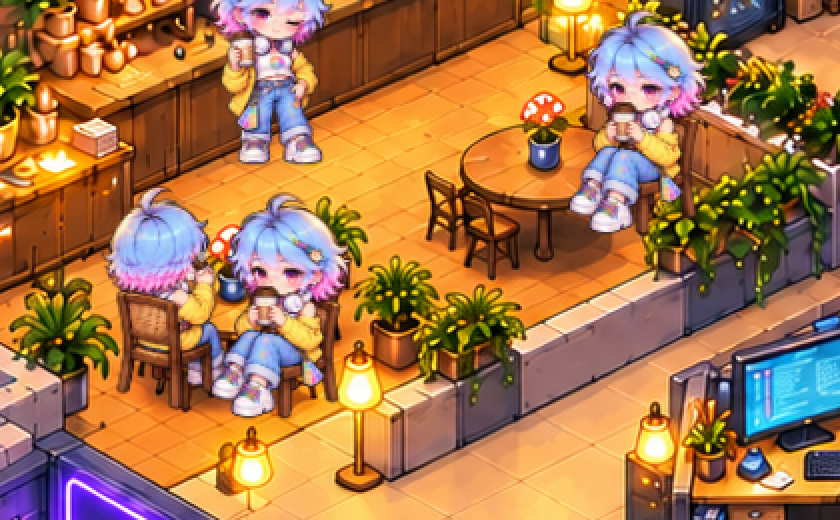
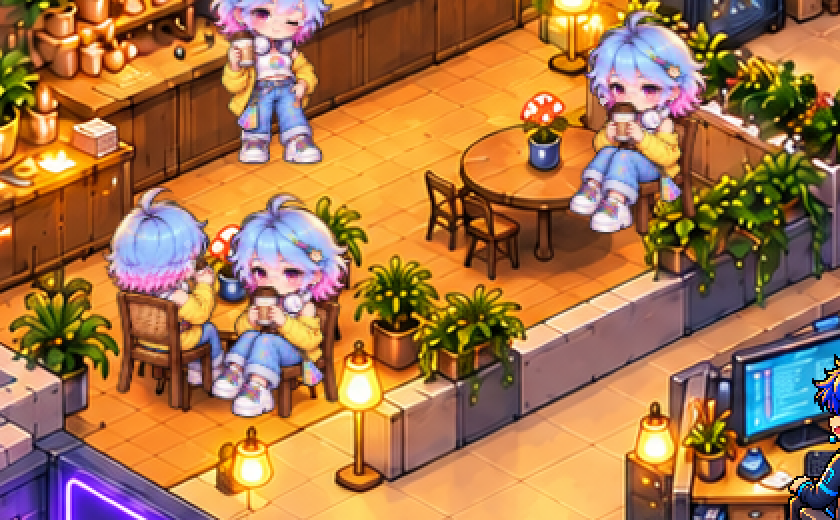
Idle: fixed per-slot poses, scripted break routine, re-seated lounge slots
- each slot owns the poses that fit its chair/sofa; chat poses only with a
  friend at the same table/sofa
- routine counter -> cafe table -> lounge -> refill, first free slot in a
  fixed order (no random jumps)
- lounge slots moved into the cushions (poses are drawn knees-up)

diff --git a/src/idle.ts b/src/idle.ts
@@ -1,46 +1,45 @@
-// Idle agents: when an agent has no work it sits on a background chair/sofa in the Cafe or the Lounge.
-// No walking: an agent fades out and fades in at another free slot. Each slot holds one agent, and a slot
-// is also blocked while any occupied slot (idle or a work seat) is within BLOCK_RADIUS or listed in
-// `conflicts` — so sprites never sit on top of each other.
+// Idle agents: an agent with no work takes a break in the Cafe and the Lounge on a fixed routine
+// (coffee counter → cafe table → lounge → back for a refill), never a random jump. Each slot has its own
+// fixed poses that fit that exact chair/sofa. No walking: the agent fades out and in at the next slot.
+// Each slot holds one agent; slots closer than BLOCK_RADIUS or listed in `conflicts` (including work seats
+// registered as blockers, e.g. 'P' = Pixel's sofa desk) block each other, so sprites never overlap.
 import {Container,Graphics,Sprite,Text,type Texture} from 'pixi.js';
 import {iconSprite,setIcon} from './pixel-icons';
 
 export type IdleManifest={scale:number;poses:Record<string,{file:string;width:number;height:number;anchorX:number;anchorY:number}>};
 export type IdleCast={name:string;manifest:IdleManifest;textures:Record<string,Texture>};
 
-type SlotKind='sofa'|'loveseat'|'chair_front'|'chair_back'|'counter'|'cooler';
-export type IdleSlot={id:string;x:number;y:number;kind:SlotKind;flip:boolean;conflicts?:string[]};
-
-// Floor contact of each slot on office_original.png (1496x1051). chair_* sprites include the cafe chair and
-// are placed so it covers the chair painted in the background (tuned 22/10, see idle-slots-*.png).
-export const IDLE_SLOTS:IdleSlot[]=[
-  {id:'C1',x:188,y:425,kind:'chair_back',flip:false},
-  {id:'C2',x:231,y:430,kind:'chair_front',flip:true},
-  {id:'C3',x:348,y:352,kind:'chair_back',flip:false,conflicts:['C4']},
-  {id:'C4',x:410,y:338,kind:'chair_front',flip:true,conflicts:['C3']},
-  {id:'C5',x:240,y:302,kind:'counter',flip:false},
-  {id:'R1',x:1150,y:815,kind:'sofa',flip:false,conflicts:['P']},
-  {id:'R2',x:1265,y:800,kind:'sofa',flip:false},
-  {id:'R3',x:1345,y:825,kind:'sofa',flip:true},
-  {id:'R5',x:1078,y:875,kind:'sofa',flip:false},
-  {id:'R6',x:1150,y:905,kind:'sofa',flip:false},
-  {id:'R7',x:1330,y:940,kind:'loveseat',flip:false},
-  {id:'R8',x:1432,y:908,kind:'cooler',flip:true},
-];
-// Slots closer than this always block each other; pairs that only overlap at certain angles are listed
-// explicitly in `conflicts` (a work seat counts by its blocker id, e.g. 'P' = Pixel's sofa desk).
-const BLOCK_RADIUS=40;
-
-// Activities per slot kind: [pose, weight, min s, max s]. Talk poses are also picked to chat with a neighbour.
+type Zone='counter'|'cafe'|'lounge';
+// [pose, weight, min s, max s]
 type Act=[string,number,number,number];
-const ACTS:Record<SlotKind,Act[]>={
-  sofa:[['sit_relax',30,5,10],['sit_drink',22,4,8],['sit_phone',22,5,10],['sit_laugh',10,2,4],['sit_doze',16,8,14]],
-  loveseat:[['sit_back',1,6,12]],
-  chair_front:[['chair_front_drink',60,5,10],['chair_front_talk',40,3,6]],
-  chair_back:[['chair_back_drink',60,5,10],['chair_back_talk',40,3,6]],
-  counter:[['stand_brew',55,4,7],['stand_drink',45,4,8]],
-  cooler:[['stand_drink',1,5,9]],
-};
+export type IdleSlot={id:string;x:number;y:number;zone:Zone;flip:boolean;acts:Act[];
+  // pose used to chat when a friend sits in the same `group`
+  talk?:string;group?:string;conflicts?:string[]};
+
+// Floor contact of each slot on office_original.png (1496x1051), tuned one by one on zoomed renders (22/10):
+// cafe chair sprites cover the painted chairs; lounge sprites sit inside the cushions, not on the front edge.
+export const IDLE_SLOTS:IdleSlot[]=[
+  // coffee counter: brew, then drink, always in this order
+  {id:'C5',x:240,y:302,zone:'counter',flip:false,acts:[['stand_brew',1,4,6],['stand_drink',1,3,5]]},
+  // cafe table A (C1 back to the viewer, C2 facing out) and table B (C3/C4 overlap: one at a time)
+  {id:'C2',x:231,y:430,zone:'cafe',flip:true,group:'tableA',talk:'chair_front_talk',acts:[['chair_front_drink',1,6,12]]},
+  {id:'C1',x:188,y:425,zone:'cafe',flip:false,group:'tableA',talk:'chair_back_talk',acts:[['chair_back_drink',1,6,12]]},
+  {id:'C4',x:410,y:338,zone:'cafe',flip:true,group:'tableB',talk:'chair_front_talk',acts:[['chair_front_drink',1,6,12]],conflicts:['C3']},
+  {id:'C3',x:348,y:352,zone:'cafe',flip:false,group:'tableB',talk:'chair_back_talk',acts:[['chair_back_drink',1,6,12]],conflicts:['C4']},
+  // lounge: L-sofa, two poufs, loveseat, water cooler
+  {id:'R2',x:1268,y:782,zone:'lounge',flip:false,group:'sofa',talk:'sit_laugh',acts:[['sit_drink',40,5,9],['sit_relax',35,6,10],['sit_phone',25,6,10]]},
+  {id:'R1',x:1162,y:795,zone:'lounge',flip:false,group:'sofa',talk:'sit_laugh',acts:[['sit_relax',40,6,10],['sit_phone',35,6,10],['sit_drink',25,5,9]],conflicts:['P']},
+  {id:'R3',x:1335,y:803,zone:'lounge',flip:true,group:'sofa',talk:'sit_laugh',acts:[['sit_phone',50,6,10],['sit_relax',50,6,10]]},
+  {id:'R6',x:1152,y:888,zone:'lounge',flip:false,group:'poufs',talk:'sit_laugh',acts:[['sit_doze',60,10,16],['sit_relax',40,6,10]]},
+  {id:'R5',x:1080,y:858,zone:'lounge',flip:false,group:'poufs',talk:'sit_laugh',acts:[['sit_relax',50,6,10],['sit_phone',50,6,10]]},
+  {id:'R7',x:1336,y:928,zone:'lounge',flip:false,acts:[['sit_back',1,8,14]]},
+  {id:'R8',x:1420,y:918,zone:'lounge',flip:true,acts:[['stand_drink',1,5,9]]},
+];
+const BLOCK_RADIUS=40;
+// The break routine: [zone, seconds spent there]. A full zone is skipped.
+const ROUTINE:[Zone,number,number][]=[['counter',7,11],['cafe',25,40],['lounge',40,70]];
+const CHAT_CHANCE=0.35;
+
 const TALK_POSES=new Set(['chair_front_talk','chair_back_talk','sit_laugh']);
 const DRINK_POSES=new Set(['sit_drink','chair_front_drink','chair_back_drink','stand_drink']);
 const CHAT_ICONS=['chat','laugh','heart','coffee','star','sparkle','note'];
@@ -54,30 +53,29 @@ export class IdleWorld{
   blockers:{id:string;x:number;y:number;active:()=>boolean}[]=[];
   agents:IdleAgent[]=[];
   constructor(public layer:Container){}
-  occupiedPoints(except?:IdleAgent){
-    const pts:{x:number;y:number;id?:string}[]=[];
-    for(const [id,a] of this.owner)if(a!==except){const s=IDLE_SLOTS.find(s=>s.id===id)!;pts.push({x:s.x,y:s.y,id})}
-    for(const b of this.blockers)if(b.active())pts.push(b);
-    return pts;
-  }
   free(slot:IdleSlot,except?:IdleAgent){
-    if(this.owner.has(slot.id)&&this.owner.get(slot.id)!==except)return false;
-    return this.occupiedPoints(except).every(p=>p.id!==slot.id&&!slot.conflicts?.includes(p.id??'')&&Math.hypot(p.x-slot.x,p.y-slot.y)>BLOCK_RADIUS);
+    const holder=this.owner.get(slot.id);
+    if(holder&&holder!==except)return false;
+    for(const [id,a] of this.owner){
+      if(a===except||id===slot.id)continue;
+      const s=IDLE_SLOTS.find(s=>s.id===id)!;
+      if(slot.conflicts?.includes(id)||Math.hypot(s.x-slot.x,s.y-slot.y)<BLOCK_RADIUS)return false;
+    }
+    return this.blockers.every(b=>!b.active()||(!slot.conflicts?.includes(b.id)&&Math.hypot(b.x-slot.x,b.y-slot.y)>=BLOCK_RADIUS));
   }
-  claim(agent:IdleAgent,prefer?:string){
-    const options=IDLE_SLOTS.filter(s=>s.id!==agent.slot?.id&&this.free(s,agent));
-    if(!options.length)return null;
-    const slot=options.find(s=>s.id===prefer)??options[Math.floor(Math.random()*options.length)];
-    if(agent.slot)this.owner.delete(agent.slot.id);
+  // First free slot of a zone, in the fixed order of IDLE_SLOTS.
+  claim(agent:IdleAgent,zone:Zone){
+    const slot=IDLE_SLOTS.find(s=>s.zone===zone&&s.id!==agent.slot?.id&&this.free(s,agent));
+    if(!slot)return null;
+    this.release(agent);
     this.owner.set(slot.id,agent);
     return slot;
   }
   release(agent:IdleAgent){if(agent.slot&&this.owner.get(agent.slot.id)===agent)this.owner.delete(agent.slot.id)}
-  neighbour(agent:IdleAgent){
-    if(!agent.slot)return null;
-    let best:IdleAgent|null=null,dist=130;
-    for(const a of this.agents)if(a!==agent&&a.active&&a.slot){const d=Math.hypot(a.slot.x-agent.slot.x,a.slot.y-agent.slot.y);if(d<dist){dist=d;best=a}}
-    return best;
+  // A friend in the same table/sofa group.
+  mate(agent:IdleAgent){
+    const g=agent.slot?.group;if(!g)return null;
+    return this.agents.find(a=>a!==agent&&a.active&&!a.fadingOut&&a.slot?.group===g)??null;
   }
   update(now:number,dt:number){for(const a of this.agents)a.update(now,dt)}
 }
@@ -91,11 +89,12 @@ export class IdleAgent{
   slot:IdleSlot|null=null;
   active=false;
   pose='';
+  step=0;
+  actIndex=0;
   until=0;
-  moveAt=0;
+  leaveAt=0;
   fade=1;
   fadingOut=false;
-  nextSlot:string|undefined;
   particleClock=0;
   constructor(public world:IdleWorld,public cast:IdleCast){
     this.bubble.addChild(new Graphics().roundRect(-13,-12,26,22,7).fill('#ffffff').stroke({color:'#16223a',width:2}).poly([-4,10,4,10,-2,16]).fill('#ffffff'),this.icon);
@@ -105,18 +104,21 @@ export class IdleAgent{
     world.layer.addChild(this.root);world.agents.push(this);
   }
   get head(){return this.sprite.height}
-  start(now:number,prefer?:string){
-    const slot=this.world.claim(this,prefer);
-    if(!slot)return false;
-    this.active=true;this.place(slot,now);
-    this.root.visible=true;this.fade=0;this.fadingOut=false;
-    return true;
+  // Start the break at the coffee counter (or the first routine zone with room).
+  start(now:number){
+    for(let i=0;i<ROUTINE.length;i++){
+      const slot=this.world.claim(this,ROUTINE[i][0]);
+      if(slot){this.step=i;this.active=true;this.place(slot,now);this.root.visible=true;this.fade=0;this.fadingOut=false;return true}
+    }
+    return false;
   }
   stop(){this.active=false;this.world.release(this);this.slot=null;this.root.visible=false;this.fx.removeChildren();this.bubble.visible=false}
   place(slot:IdleSlot,now:number){
     this.slot=slot;
     this.root.position.set(slot.x,slot.y);this.root.zIndex=slot.y;
-    this.moveAt=now+rand(25,50)*1000;
+    const [,min,max]=ROUTINE[this.step];
+    this.leaveAt=now+rand(min,max)*1000;
+    this.actIndex=-1;
     this.choose(now);
   }
   show(pose:string){
@@ -126,52 +128,54 @@ export class IdleAgent{
     this.sprite.scale.set(this.slot!.flip?-s:s,s);
     this.pose=pose;
   }
-  choose(now:number,force?:string){
-    const acts=ACTS[this.slot!.kind];
-    let act=acts.find(a=>a[0]===force);
-    if(!act){
-      // chat with a neighbour now and then: both switch to a talk pose
-      const mate=this.world.neighbour(this),talk=acts.find(a=>TALK_POSES.has(a[0]));
-      if(mate&&talk&&Math.random()<0.4){act=talk;mate.chatWith(now)}
-      else{
-        const pose=pick(acts.filter(a=>acts.length===1||a[0]!==this.pose).map(a=>[a[0],a[1]] as [string,number]));
-        act=acts.find(a=>a[0]===pose)!;
-      }
+  choose(now:number){
+    const slot=this.slot!;
+    // Counter: brew first, then drink, then stay drinking.
+    if(slot.zone==='counter'){
+      this.actIndex=Math.min(this.actIndex+1,slot.acts.length-1);
+      const [pose,,min,max]=slot.acts[this.actIndex];
+      this.show(pose);this.until=now+rand(min,max)*1000;return;
     }
-    this.show(act[0]);
-    this.until=now+rand(act[2],act[3])*1000;
-    this.bubble.visible=false;
+    const mate=this.world.mate(this);
+    if(slot.talk&&mate&&!TALK_POSES.has(this.pose)&&Math.random()<CHAT_CHANCE){
+      this.show(slot.talk);this.until=now+rand(3,6)*1000;mate.chatBack(now);return;
+    }
+    const options=slot.acts.filter(a=>slot.acts.length===1||a[0]!==this.pose);
+    const pose=pick(options.map(a=>[a[0],a[1]] as [string,number]));
+    const act=slot.acts.find(a=>a[0]===pose)!;
+    this.show(act[0]);this.until=now+rand(act[2],act[3])*1000;
   }
-  chatWith(now:number){
-    const talk=ACTS[this.slot!.kind].find(a=>TALK_POSES.has(a[0]));
-    if(talk&&now>this.until-1500){this.show(talk[0]);this.until=now+rand(talk[2],talk[3])*1000}
+  chatBack(now:number){
+    if(this.slot?.talk&&!this.fadingOut){this.show(this.slot.talk);this.until=now+rand(3,6)*1000}
   }
-  relocate(now:number,prefer?:string){if(this.active&&!this.fadingOut){this.fadingOut=true;this.fade=1;this.nextSlot=prefer;this.moveAt=now+1e9}}
+  // Go to the next stop of the routine (skips zones that are full); used by the timer and the test button.
+  advance(now:number){if(this.active&&!this.fadingOut){this.fadingOut=true;this.fade=1;this.leaveAt=now+1e9}}
+  relocate(now:number){this.advance(now)}
   update(now:number,dt:number){
     if(!this.active)return;
-    // fade between slots
     if(this.fadingOut){
       this.fade=Math.max(0,this.fade-dt/FADE_MS);
       if(this.fade===0){
         this.fadingOut=false;
-        const slot=this.world.claim(this,this.nextSlot);
-        if(slot){this.fx.removeChildren();this.place(slot,now)}
+        for(let i=1;i<=ROUTINE.length;i++){
+          const step=(this.step+i)%ROUTINE.length,slot=this.world.claim(this,ROUTINE[step][0]);
+          if(slot){this.step=step;this.fx.removeChildren();this.place(slot,now);break}
+        }
+        if(!this.slot)this.leaveAt=now+5000;
       }
     }else this.fade=Math.min(1,this.fade+dt/FADE_MS);
     this.root.alpha=this.fade;
-    if(now>=this.moveAt&&Math.random()<0.5)this.relocate(now);else if(now>=this.moveAt)this.moveAt=now+rand(20,40)*1000;
-    if(now>=this.until)this.choose(now);
+    if(now>=this.leaveAt)this.advance(now);
+    if(!this.fadingOut&&now>=this.until)this.choose(now);
     this.updateFx(now,dt);
   }
   spawn(node:Container,vx:number,vy:number,life:number){
-    (node as Container&{life:number;age:number;vx:number;vy:number}).life=life;
-    Object.assign(node,{age:0,vx,vy});this.fx.addChild(node);
+    Object.assign(node,{age:0,vx,vy,life});this.fx.addChild(node);
   }
   updateFx(now:number,dt:number){
     const h=this.head,flip=this.slot!.flip?-1:1;
     this.particleClock+=dt;
     if(DRINK_POSES.has(this.pose)&&this.particleClock>380){
-      // steam from the cup
       this.particleClock=0;
       const g=new Graphics().circle(0,0,rand(1.5,2.6)).fill({color:'#ffffff',alpha:0.75});
       g.position.set(flip*rand(6,14),-h*0.55);this.spawn(g,rand(-0.004,0.004),-0.025,1100);
@@ -191,7 +195,6 @@ export class IdleAgent{
       c.age+=dt;c.x+=c.vx*dt;c.y+=c.vy*dt;c.alpha=Math.max(0,1-c.age/c.life);
       if(c.age>=c.life)c.destroy();
     }
-    // speech bubble while talking/laughing
     const talking=TALK_POSES.has(this.pose);
     this.bubble.visible=talking;
     if(talking){

diff --git a/src/coding-test.ts b/src/coding-test.ts
@@ -875,7 +875,7 @@ const idleBar=document.getElementById('force-idle')!;
 const idleButtons:[string,()=>void][]=[
   ['Pixel làm việc',()=>{pixelIdle.stop();pixelSeat.setOccupied(true,pixelCast)}],
   ['Pixel idle',()=>{pixelSeat.setOccupied(false);if(!pixelIdle.active)pixelIdle.start(performance.now())}],
-  ['Đổi chỗ',()=>{for(const a of idleWorld.agents)a.relocate(performance.now())}],
+  ['Bước tiếp (quầy → bàn → sofa)',()=>{for(const a of idleWorld.agents)a.advance(performance.now())}],
   ['+ Clone idle',()=>{const c=new IdleAgent(idleWorld,pixelIdleCast);if(c.start(performance.now()))idleClones.push(c);else c.stop()}],
   ['Xoá clone',()=>{for(const c of idleClones)c.stop();idleClones.length=0}],
 ];
